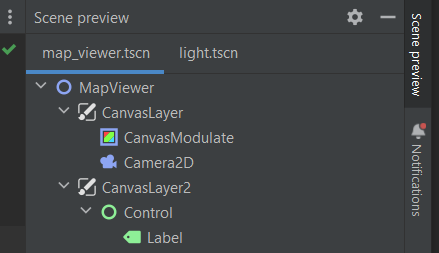
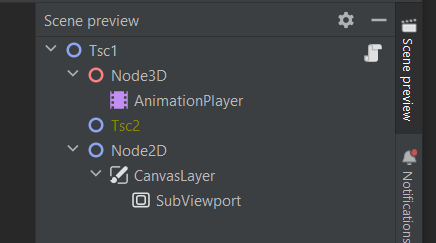
Script/UniqueName icos for toolWin

diff --git a/src/main/kotlin/tscn/toolWindow/TscnScenePreviewWindow.kt b/src/main/kotlin/tscn/toolWindow/TscnScenePreviewWindow.kt
@@ -2,13 +2,13 @@ package tscn.toolWindow
 
 import com.intellij.ide.ActivityTracker
 import com.intellij.ide.DataManager
-import com.intellij.ide.dnd.DnDActionInfo
-import com.intellij.ide.dnd.DnDDragStartBean
-import com.intellij.ide.dnd.DnDSupport
 import com.intellij.openapi.Disposable
 import com.intellij.openapi.actionSystem.CommonDataKeys
 import com.intellij.openapi.actionSystem.DataContext
-import com.intellij.openapi.application.*
+import com.intellij.openapi.application.ApplicationManager
+import com.intellij.openapi.application.EDT
+import com.intellij.openapi.application.ModalityState
+import com.intellij.openapi.application.ReadAction
 import com.intellij.openapi.fileEditor.FileEditor
 import com.intellij.openapi.fileEditor.FileEditorManager
 import com.intellij.openapi.fileEditor.impl.FileEditorManagerImpl
@@ -20,7 +20,6 @@ import com.intellij.openapi.vfs.VirtualFile
 import com.intellij.openapi.wm.IdeFocusManager
 import com.intellij.openapi.wm.ToolWindow
 import com.intellij.openapi.wm.ToolWindowManager
-import com.intellij.platform.ide.progress.ModalTaskOwner.component
 import com.intellij.psi.PsiFile
 import com.intellij.psi.util.PsiTreeUtil
 import com.intellij.ui.ScrollPaneFactory
@@ -48,7 +47,6 @@ import tscn.psi.utils.TscnResourceUtil
 import tscn.toolWindow.model.TscnSceneTreeNode
 import java.awt.Container
 import java.awt.KeyboardFocusManager
-import java.awt.datatransfer.StringSelection
 import java.awt.event.HierarchyEvent
 import java.util.concurrent.atomic.AtomicBoolean
 import javax.swing.*
@@ -341,7 +339,7 @@ class TscnScenePreviewWindow : Disposable {
                 if (i == 0) parent = it.instanceResource
                 treeModel.addNodeChild(it, resolveType(it))
             }
-            coroutineScope.launch { addParentScene(treeModel, tree, parent) }
+            addParentScene(treeModel, tree, parent)
         }
     }
 

diff --git a/src/main/kotlin/tscn/toolWindow/TscnSceneCellRenderer.kt b/src/main/kotlin/tscn/toolWindow/TscnSceneCellRenderer.kt
@@ -3,7 +3,11 @@ package tscn.toolWindow
 import com.intellij.ui.JBColor
 import gdscript.GdIcon
 import tscn.toolWindow.model.TscnSceneTreeNode
+import java.awt.BorderLayout
 import java.awt.Component
+import javax.swing.BorderFactory
+import javax.swing.JLabel
+import javax.swing.JPanel
 import javax.swing.JTree
 import javax.swing.tree.DefaultTreeCellRenderer
 
@@ -18,14 +22,28 @@ class TscnSceneCellRenderer : DefaultTreeCellRenderer() {
         row: Int,
         hasFocus: Boolean,
     ): Component {
+
         super.getTreeCellRendererComponent(tree, value, selected, expanded, leaf, row, hasFocus)
+        val panel = JPanel(BorderLayout())
+        panel.add(this, BorderLayout.WEST)
+
         if (value is TscnSceneTreeNode) {
             text = value.myName
             icon = GdIcon.getEditorIcon(value.myType)
             if (value.inherited) foreground = JBColor.YELLOW
+
+            if (value.hasScript || value.hasUniqueName) {
+                val icoPanel = JPanel()
+                icoPanel.border = BorderFactory.createEmptyBorder(0, 0, 0, 5)
+
+                if (value.hasScript) icoPanel.add(JLabel(GdIcon.getEditorIcon("Script")))
+                if (value.hasUniqueName) icoPanel.add(JLabel(GdIcon.getEditorIcon("SceneUniqueName")))
+
+                panel.add(icoPanel, BorderLayout.EAST)
+            }
         }
 
-        return this
+        return panel
     }
 
 }
